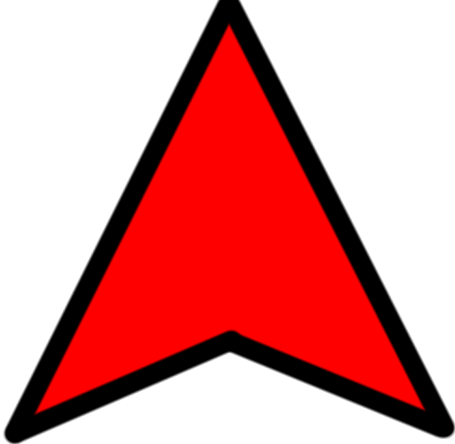
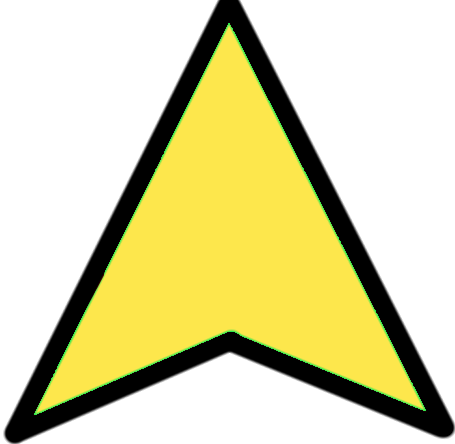
Made the wind arrow yellow

diff --git a/visualiser/src/main/java/seng302/Controllers/RaceController.java b/visualiser/src/main/java/seng302/Controllers/RaceController.java
@@ -346,9 +346,8 @@ public class RaceController implements IRaceController {
                 boatImage.setRotate(race.getBoats().get(i).getHeading());
 
                 //  Temporary hard coding to differentiate between the boat in user control
-                if (race.getBoats().get(i).getSourceId() == race.getClientSourceId()) {
-                    updateNodeScale(boats.get(i).getStack().getChildren().get(BoatSprite.CONTROL_CIRCLE));
-                }
+                updateNodeScale(boats.get(i).getStack().getChildren().get(BoatSprite.CONTROL_CIRCLE));
+
 
                 //  Boats wake
                 boats.get(i).getStack().getChildren().set(BoatSprite.WAKE, newWake(boatSpeed));

diff --git a/visualiser/src/main/java/seng302/Visualiser/BoatSprite.java b/visualiser/src/main/java/seng302/Visualiser/BoatSprite.java
@@ -99,13 +99,13 @@ public class BoatSprite {
             controlCircle = new Circle(10);
             controlCircle.setCenterX(0);
             controlCircle.setCenterY(0);
-            controlCircle.setStroke(Color.GREEN);
+            controlCircle.setStroke(Color.YELLOW);
             controlCircle.setFill(Color.TRANSPARENT);
         } else {
             controlCircle = new Circle(10);
             controlCircle.setCenterX(0);
             controlCircle.setCenterY(0);
-            controlCircle.setStroke(Color.RED);
+            controlCircle.setStroke(Color.ORANGERED);
             controlCircle.setFill(Color.TRANSPARENT);
         }
         stack.getChildren().add(controlCircle);

diff --git a/visualiser/src/main/java/seng302/Controllers/FinishingController.java b/visualiser/src/main/java/seng302/Controllers/FinishingController.java
@@ -39,7 +39,7 @@ public class FinishingController {
     }
     @FXML
     public void initialize(){
-        exitToMenuBtn.setVisible(false);
+        exitToMenuBtn.setVisible(true);
     }
 
     public void initialiseTable(){
